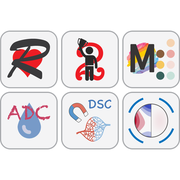
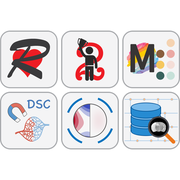
ADCmapp continues as MAPapp: its row off the main page, MAPapp names diffusion

Changed region(s): [[0.6944, 0.5278, 1.0, 0.8056], [0.3611, 0.5278, 0.6389, 0.8056], [0.0278, 0.5556, 0.2778, 0.8056]]

diff --git a/README.md b/README.md
@@ -14,8 +14,7 @@ These are beta versions.
 | <img src="https://moby1971.github.io/MRI-apps/images/icons/retrospective.png" width="40" height="40" alt=""><br>**Retrospective** | Reconstruction of self-gated cardiac and respiratory CINE MRI, with automatic LV segmentation | [0.5.9 (430 MB)](https://github.com/Moby1971/MRI-apps/releases/download/retrospective-v0.5.9/Retrospective-0.5.9-macOS-arm64.dmg) | [0.5.9 (358 MB)](https://github.com/Moby1971/MRI-apps/releases/download/retrospective-v0.5.9/Retrospective-0.5.9-setup.exe) | [PDF](https://moby1971.github.io/MRI-apps/manuals/retrospective-manual.pdf) |
 | <img src="https://moby1971.github.io/MRI-apps/images/icons/p2roud.png" width="40" height="40" alt=""><br>**P2ROUD** | Reconstruction of (undersampled) Cartesian, radial, UTE, ZTE and EPI data | [0.5.7 (132 MB)](https://github.com/Moby1971/MRI-apps/releases/download/p2roud-v0.5.7/P2ROUD-0.5.7-macOS-arm64.dmg) | [0.5.7 (110 MB)](https://github.com/Moby1971/MRI-apps/releases/download/p2roud-v0.5.7/P2ROUD-0.5.7-setup.exe) | [PDF](https://moby1971.github.io/MRI-apps/manuals/p2roud-manual.pdf) |
 | | TRAJapp: k-space trajectories (phase-encoding LUTs) for P2ROUD's undersampled scans | [0.2.9 (73 MB)](https://github.com/Moby1971/MRI-apps/releases/download/trajapp-v0.2.9/TRAJapp-0.2.9-macOS-arm64.dmg) | [0.2.9 (66 MB)](https://github.com/Moby1971/MRI-apps/releases/download/trajapp-v0.2.9/TRAJapp-0.2.9-setup.exe) | [PDF](https://moby1971.github.io/MRI-apps/manuals/trajapp-manual.pdf) |
-| <img src="https://moby1971.github.io/MRI-apps/images/icons/mapapp.png" width="40" height="40" alt=""><br>**MAPapp** | T₁, T₂ and T₂* mapping, MT and CEST, with water & fat separation, QSM and ORACLE | [0.2.6 (167 MB)](https://github.com/Moby1971/MRI-apps/releases/download/mapapp-v0.2.6/MAPapp-0.2.6-macOS-arm64.dmg) | [0.2.6 (123 MB)](https://github.com/Moby1971/MRI-apps/releases/download/mapapp-v0.2.6/MAPapp-0.2.6-setup.exe) | [PDF](https://moby1971.github.io/MRI-apps/manuals/mapapp-manual.pdf) |
-| <img src="https://moby1971.github.io/MRI-apps/images/icons/adcmapp.png" width="40" height="40" alt=""><br>**ADCmapp** | ADC mapping of diffusion-weighted data | [0.4.7 (100 MB)](https://github.com/Moby1971/MRI-apps/releases/download/adcmapp-v0.4.7/ADCmapp-0.4.7-macOS-arm64.dmg) | [0.4.7 (76 MB)](https://github.com/Moby1971/MRI-apps/releases/download/adcmapp-v0.4.7/ADCmapp-0.4.7-setup.exe) | [PDF](https://moby1971.github.io/MRI-apps/manuals/adcmapp-manual.pdf) |
+| <img src="https://moby1971.github.io/MRI-apps/images/icons/mapapp.png" width="40" height="40" alt=""><br>**MAPapp** | T₁, T₂ and T₂* mapping, MT, CEST and diffusion (ADC, IVIM), with water & fat separation, QSM and ORACLE | [0.2.6 (167 MB)](https://github.com/Moby1971/MRI-apps/releases/download/mapapp-v0.2.6/MAPapp-0.2.6-macOS-arm64.dmg) | [0.2.6 (123 MB)](https://github.com/Moby1971/MRI-apps/releases/download/mapapp-v0.2.6/MAPapp-0.2.6-setup.exe) | [PDF](https://moby1971.github.io/MRI-apps/manuals/mapapp-manual.pdf) |
 | <img src="https://moby1971.github.io/MRI-apps/images/icons/dscmapp.png" width="40" height="40" alt=""><br>**DSCmapp** | Hemodynamic and vascular maps of the brain from dynamic susceptibility contrast (DSC) MRI | [0.3.4 (98 MB)](https://github.com/Moby1971/MRI-apps/releases/download/dscmapp-v0.3.4/DSCmapp-0.3.4-macOS-arm64.dmg) | [0.3.4 (75 MB)](https://github.com/Moby1971/MRI-apps/releases/download/dscmapp-v0.3.4/DSCmapp-0.3.4-setup.exe) | [PDF](https://moby1971.github.io/MRI-apps/manuals/dscmapp-manual.pdf) |
 | <img src="https://moby1971.github.io/MRI-apps/images/icons/shimapp.png" width="40" height="40" alt=""><br>**SHIMapp** | Image-based B₀ shimming | [0.5.8 (125 MB)](https://github.com/Moby1971/MRI-apps/releases/download/shimapp-v0.5.8/SHIMapp-0.5.8-macOS-arm64.dmg) | [0.5.8 (103 MB)](https://github.com/Moby1971/MRI-apps/releases/download/shimapp-v0.5.8/SHIMapp-0.5.8-setup.exe) | [PDF](https://moby1971.github.io/MRI-apps/manuals/shimapp-manual.pdf) |
 | <img src="https://moby1971.github.io/MRI-apps/images/icons/dataapp.png" width="40" height="40" alt=""><br>**DATAapp** | Searchable database of the scans in the MRD and Data folders and your own folders, with a quick image viewer | [0.3.2 (82 MB)](https://github.com/Moby1971/MRI-apps/releases/download/dataapp-v0.3.2/DATAapp-0.3.2-macOS-arm64.dmg) | [0.3.2 (76 MB)](https://github.com/Moby1971/MRI-apps/releases/download/dataapp-v0.3.2/DATAapp-0.3.2-setup.exe) | [PDF](https://moby1971.github.io/MRI-apps/manuals/dataapp-manual.pdf) |
